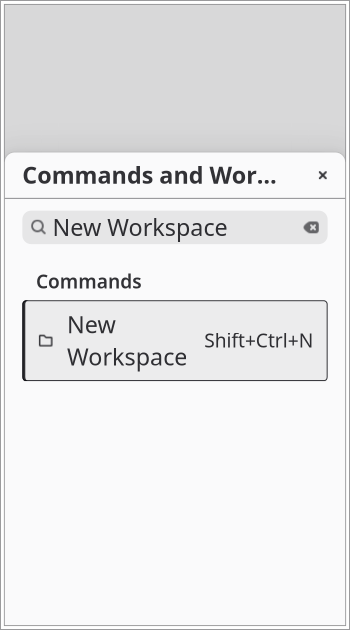
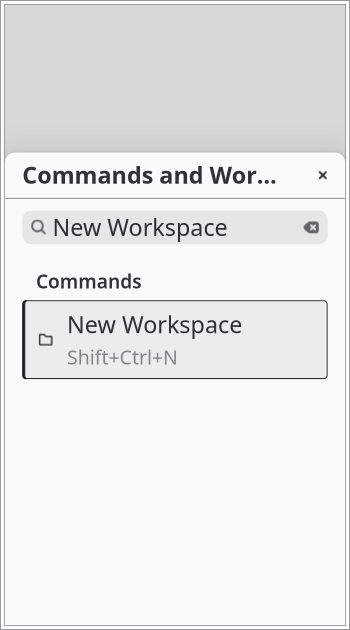
gui: retain palette wide-font regression evidence

Changed region(s): [[0.1714, 0.4825, 0.8857, 0.6032], [0.1143, 0.5127, 0.1429, 0.573]]

diff --git a/docs/qa/palette-recognition-2026-10-15/README.md b/docs/qa/palette-recognition-2026-10-15/README.md
@@ -16,3 +16,19 @@ The first RTL fixture only changed the parent direction, leaving the separate di
 Independent code-review Spec and Standards axes each report zero findings on the pinned range. Spec reviewed FR001–004 and desktop/narrow/RTL captures; Standards checked repository rules and Fowler heuristics. Finalization delta adds only this evidence and task readiness.
 
 Final full report is external at `/tmp/palette-recognition-full-20261015`; actual result/revision and GitHub CI artifact belong to the PR body after execution. This document freezes before that run and makes no advance success claim. Not run: real-desktop screen reader, on-screen keyboard, IME or paid provider sessions. Native roles/renders do not certify assistive technology operation. No model, persistence, IPC or dependency change; rollback is GUI-only.
+
+## CI correction, 2026-10-15
+
+The first proposed-merge run 38752638254 failed gtk-15 on 91a4e17. Its real wide-font screenshot is retained as ci-wide-font-before.png: at 360px and large text the trailing shortcut squeezed New Workspace. The same assertion was reproduced locally using DejaVu Sans 18, so this was a genuine allocation defect, not a retryable environment failure.
+
+| Before | After | Why |
+| --- | --- | --- |
+| Shortcut competes horizontally with title under 480sp | Native command subtitle shows shortcut beneath title | Retain both complete labels with wider font metrics |
+| Only generic Sans 18 coverage | Additional DejaVu Sans 18 stress case | Exercise the metrics that exposed the CI failure |
+| No resize placement check | Narrow→wide→narrow assertions | Prove trailing hint restores without duplicate subtitle |
+
+Exact narrow test passed after native breakpoint setters. The original no-ellipsis assertion remains. Test now checks the mapped shortcut because its trailing copy is intentionally hidden in compact mode. wide-font-after.png and shortcut-restored-wide.png show actual native results; current narrow/RTL images reflect the corrected presentation. The change does not touch search, target mapping, activation or workspace path subtitles.
+
+Independent Spec and Standards delta reviews each report zero findings on 91a4e175…5142b4fa. Both reviewed the actual wide-font/native restoration captures and the unchanged no-truncation assertion. Finalization after 5142b4fa adds only evidence and task readiness.
+
+Fresh full execution report for this corrected source will be /tmp/palette-recognition-ci-fix-full-20261015, with actual verified revision/result in the updated PR body. Earlier full success belongs to 91a4e17 and is not proof of corrected source. This paragraph freezes before the new run and does not claim its outcome.

diff --git a/specs/069-palette-recognition-polish/tasks.md b/specs/069-palette-recognition-polish/tasks.md
@@ -9,4 +9,4 @@
 
 Sequential T001→T006. Final full/delivery outcomes and publication follow frozen source and are recorded externally and in the PR body.
 
-- [ ] T007 [FR-003] [FR-004] Reproduce the CI wide-font truncation and adapt shortcut placement with native breakpoint; verify resize/RTL/large text, review delta and freeze corrected source for fresh full/delivery proof.
+- [x] T007 [FR-003] [FR-004] Reproduce the CI wide-font truncation and adapt shortcut placement with native breakpoint; verify resize/RTL/large text, review delta and freeze corrected source for fresh full/delivery proof.
